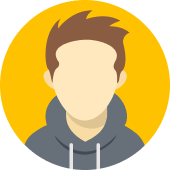
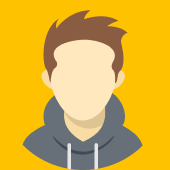
incomplete leaderboard

diff --git a/frontend/components/Leaderboard.tsx b/frontend/components/Leaderboard.tsx
@@ -1,0 +1,138 @@
+import Image from "next/image";
+
+type Props = {
+  variant: "list" | "scroll";
+  className?: string;
+};
+/* use `interface` if exporting so that consumers can extend */
+
+const getLeaderboard = () => {
+  return [
+    {
+      name: "Nakamura",
+      avatar: "/avatar.png",
+      points: 10000,
+    },
+    {
+      name: "Lithmus",
+      avatar: "/avatar.png",
+      points: 9000,
+    },
+    {
+      name: "Zang",
+      avatar: "/avatar.png",
+      points: 8000,
+    },
+    {
+      name: "BlessTheBoy",
+      avatar: "/avatar.png",
+      points: 7000,
+    },
+    {
+      name: "Tholarni",
+      avatar: "/avatar.png",
+      points: 6000,
+    },
+    {
+      name: "Joshephine",
+      avatar: "/avatar.png",
+      points: 5000,
+    },
+    {
+      name: "Olakunle",
+      avatar: "/avatar.png",
+      points: 4000,
+    },
+    {
+      name: "Abdulmatin",
+      avatar: "/avatar.png",
+      points: 3000,
+    },
+    {
+      name: "Ridwan",
+      avatar: "/avatar.png",
+      points: 2000,
+    },
+    {
+      name: "Mr. Action",
+      avatar: "/avatar.png",
+      points: 1000,
+    },
+  ];
+};
+
+const Leaderboard = ({ variant, className }: Props) => {
+  const leaderboard = getLeaderboard();
+  return (
+    <div className={className}>
+      <h2 className="font-semibold text-2xl text-[#FFC200] py-[10px] px-3 lg:px-5">
+        Leaderboard
+      </h2>
+      {variant === "list" ? (
+        <div className="grid gap-2 px-[10px] lg:px-5">
+          {leaderboard.map((player, index) => (
+            <ListItem player={player} position={index + 1} key={index} />
+          ))}
+        </div>
+      ) : (
+        <div className="overflow-x-scroll  px-[10px] lg:px-5 no-scrollbar">
+          <div className="flex py-[14px]  border border-[#45E3C6] rounded bg-[#EEFDFA] w-fit">
+            {leaderboard.map((player, index) => (
+              <ScrollItem player={player} position={index + 1} key={index} />
+            ))}
+          </div>
+        </div>
+      )}
+    </div>
+  );
+};
+
+export default Leaderboard;
+
+type ItemProps = {
+  player: {
+    name: string;
+    avatar: string;
+    points: number;
+  };
+  position: number;
+};
+/* use `interface` if exporting so that consumers can extend */
+
+const ListItem = ({ player, position }: ItemProps) => {
+  return (
+    <div className="text-teal font-semibold text-base leading-4 flex justify-between items-center bg-[#FAFEE7] border border-[#BFD059] rounded-lg p-[14px] w-full">
+      <span>{position}.</span>
+      <div className="flex items-center gap-2">
+        <Image
+          src={player.avatar}
+          alt={`${player.name} avatar`}
+          height={40}
+          width={40}
+          className="hidden lg:block rounded-full overflow-hidden"
+        />
+        <span>{player.name}</span>
+      </div>
+      <span>{player.points}</span>
+    </div>
+  );
+};
+
+const ScrollItem = ({ player, position }: ItemProps) => {
+  return (
+    <div className="px-3">
+      <Image
+        src={player.avatar}
+        alt={`${player.name} avatar`}
+        height={170}
+        width={170}
+        className="rounded-full overflow-hidden w-[120px] h-[120px]"
+      />
+      <div>
+        <span>{position}.</span>
+        <span>{player.name}</span>
+      </div>
+      <div>{player.points.toLocaleString()}</div>
+    </div>
+  );
+};

diff --git a/frontend/styles/globals.css b/frontend/styles/globals.css
@@ -2,6 +2,18 @@
 @tailwind components;
 @tailwind utilities;
 
+@layer utilities {
+  /* Chrome, Safari and Opera */
+  .no-scrollbar::-webkit-scrollbar {
+    display: none;
+  }
+
+  .no-scrollbar {
+    -ms-overflow-style: none; /* IE and Edge */
+    scrollbar-width: none; /* Firefox */
+  }
+}
+
 * {
   box-sizing: border-box;
   padding: 0;
@@ -15,15 +27,19 @@ body {
   overflow-x: hidden;
 }
 
-#__next {
-  min-height: 100vh;
+/* #__next {
+  height: 100vh;
   display: flex;
   flex-direction: column;
-}
+} */
 
 a {
   color: inherit;
   text-decoration: none;
+}
+
+img {
+  object-fit: cover;
 }
 
 option:first-of-type {

diff --git a/frontend/pages/index.tsx b/frontend/pages/index.tsx
@@ -1,5 +1,6 @@
 import Head from "next/head";
 import Layout from "../components/Layout";
+import Leaderboard from "../components/Leaderboard";
 import useIsAuth from "../utils/hooks/useIsAuth";
 
 export default function Home() {
@@ -15,7 +16,9 @@ export default function Home() {
         <meta name="viewport" content="width=device-width, initial-scale=1" />
         <link rel="icon" href="/favicon.ico" />
       </Head>
-      <Layout>Dashboard </Layout>
+      <Layout>
+        <Leaderboard variant="scroll" />
+      </Layout>
     </>
   );
 }

diff --git a/frontend/components/Layout.tsx b/frontend/components/Layout.tsx
@@ -39,13 +39,13 @@ const Layout = ({ children }: Props) => {
   }, [open]);
 
   return (
-    <>
+    <div className="flex flex-col h-screen overflow-hidden">
       <Header openSidebar={openSidebar} />
-      <main className="flex h-full flex-grow">
+      <div className="flex h-full flex-grow overflow-hidden">
         <Sidebar open={open} closeSidebar={closeSidebar} />
-        {children}
-      </main>
-    </>
+        <main className="flex-grow overflow-y-auto">{children}</main>
+      </div>
+    </div>
   );
 };
 
